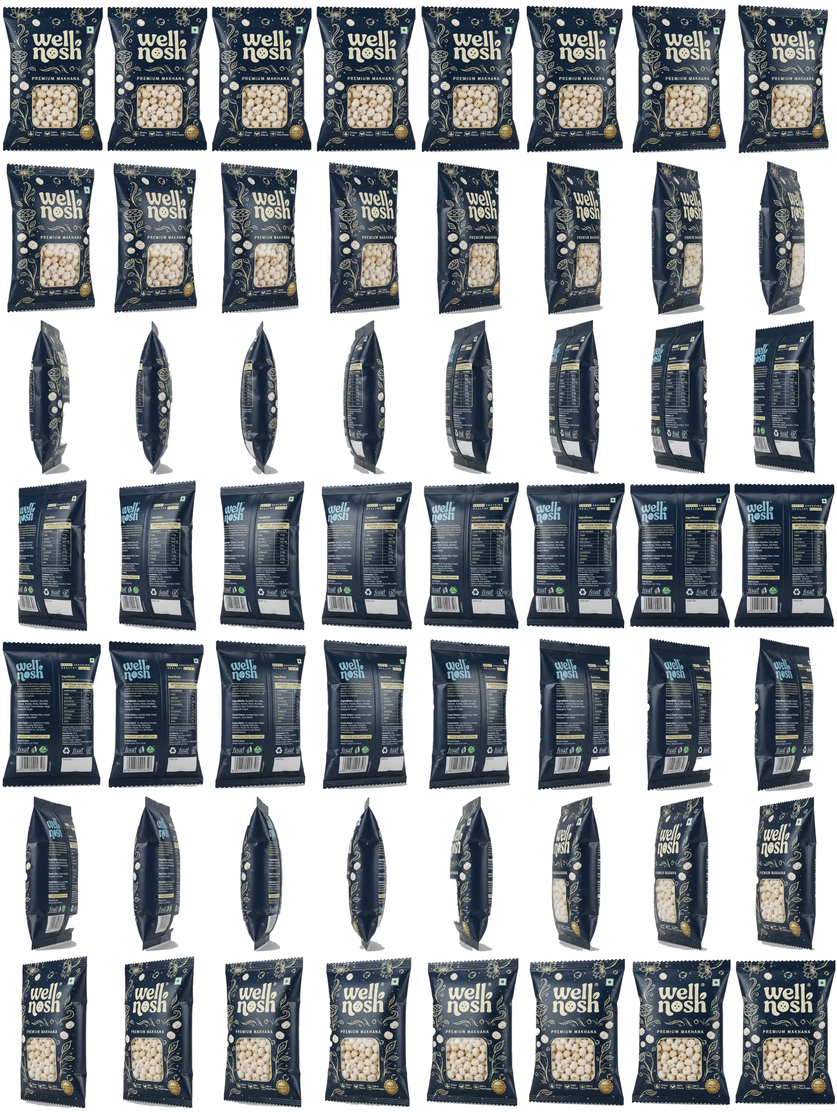
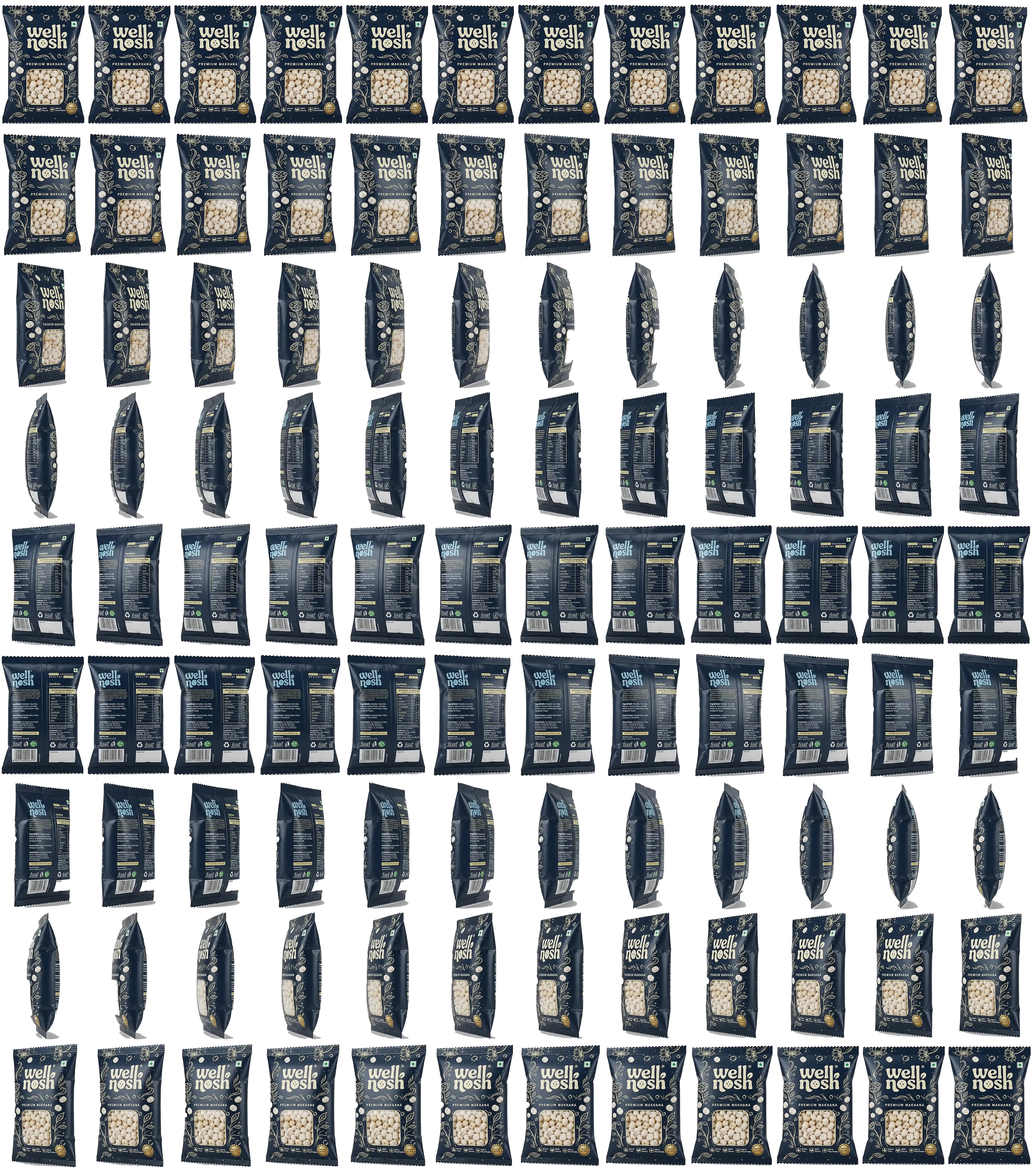
Vision & Mission, descending nutrition table, flicker-free turntable
- Added Vision and Mission cards to Our story (client's wording).
- Nutrition values sorted high to low by actual amount (g converted to mg),
  filling each column top-to-bottom.
- Rebuilt the pack turntable from one revolution in strict temporal order:
  the previous build interleaved frames from two revolutions, which differed
  in exposure and caused the flicker. Alpha also temporally smoothed.
- Sharpened frames (unsharp before and after resize) - the source video caps
  the pack at 408px, so this is the practical resolution ceiling.
- Separate mobile sprite at 540px; phones rest on a 940px still, spin on tap.
- Our story stat 5+ -> 6+ sizes.

diff --git a/index.html b/index.html
@@ -137,12 +137,24 @@ h1,h2,h3,.disp{font-family:'Baloo 2',cursive;font-weight:800;letter-spacing:-.01
 /* nutrition */
 .nutcard{max-width:760px;margin:34px auto 0;background:var(--cream-2);border:1px solid var(--cream-line);
   border-radius:var(--r-lg);padding:clamp(20px,3vw,30px);box-shadow:var(--shadow-sm)}
-.nutlist{list-style:none;display:grid;grid-template-columns:1fr 1fr;gap:0 clamp(20px,4vw,44px);text-align:left}
+.nutlist{list-style:none;display:grid;grid-template-columns:1fr 1fr;gap:0 clamp(20px,4vw,44px);text-align:left;
+  grid-auto-flow:column;grid-template-rows:repeat(5,auto)}
 .nutlist li{display:flex;align-items:baseline;justify-content:space-between;gap:12px;
   padding:11px 2px;border-bottom:1px dashed var(--cream-line);font-size:15px;color:#4a5f70}
 .nutlist li b{font-family:'Baloo 2';font-weight:700;font-size:16px;color:var(--navy);white-space:nowrap}
 .nutnote{font-size:12.5px;color:#8496a0;margin-top:16px}
-@media(max-width:620px){.nutlist{grid-template-columns:1fr}}
+@media(max-width:620px){.nutlist{grid-template-columns:1fr;grid-auto-flow:row;grid-template-rows:none}}
+/* vision & mission */
+.about .wrap.vmwrap{display:block;padding-top:0}
+.vm{display:grid;grid-template-columns:1fr 1fr;gap:20px;margin-top:46px}
+.vmcard{background:rgba(255,255,255,.07);border:1px solid rgba(183,215,225,.22);
+  border-radius:var(--r-lg);padding:28px 26px}
+.vmcard .vmic{width:46px;height:46px;border-radius:13px;background:var(--blue);color:var(--navy);
+  display:flex;align-items:center;justify-content:center;margin-bottom:16px}
+.vmcard .vmic svg{width:24px;height:24px}
+.vmcard h3{font-size:21px;margin-bottom:8px;color:#fff}
+.vmcard p{font-size:15px;color:var(--blue-2);line-height:1.65}
+@media(max-width:820px){.vm{grid-template-columns:1fr;gap:16px}}
 /* texture band */
 .texband{position:relative;padding:clamp(70px,10vw,100px) 24px;color:#fff;
   background:linear-gradient(90deg,rgba(15,56,86,.86),rgba(15,56,86,.4) 68%,rgba(15,56,86,.12)),url('assets/img/makhana-texture.jpg') center/cover no-repeat}
@@ -228,7 +240,7 @@ h1,h2,h3,.disp{font-family:'Baloo 2',cursive;font-weight:800;letter-spacing:-.01
   .footer .top{grid-template-columns:1fr}
 }
 /* hero 360 pack spin (frame sequence) */
-.pack3d{--pw:min(330px,80vw);position:relative;width:var(--pw);margin:0 auto;
+.pack3d{--pw:min(330px,74vw);position:relative;width:var(--pw);margin:0 auto;
   cursor:grab;touch-action:pan-y;user-select:none}
 .pack3d:active{cursor:grabbing}
 .pack3d::after{content:"";position:absolute;left:50%;bottom:-14px;width:62%;height:26px;
@@ -390,15 +402,15 @@ section[id]{scroll-margin-top:84px}
     <div class="nutcard">
       <ul class="nutlist">
         <li>Carbohydrates <b>76 g</b></li>
-        <li>Phosphorus <b>200 mg</b></li>
         <li>Fibre <b>14.5 g</b></li>
-        <li>Magnesium <b>25 mg</b></li>
         <li>Protein <b>9.8 g</b></li>
-        <li>Calcium <b>8 mg</b></li>
-        <li>Fat <b>0 g</b></li>
-        <li>Sodium <b>6 mg</b></li>
         <li>Potassium <b>500 mg</b></li>
+        <li>Phosphorus <b>200 mg</b></li>
+        <li>Magnesium <b>25 mg</b></li>
+        <li>Calcium <b>8 mg</b></li>
+        <li>Sodium <b>6 mg</b></li>
         <li>Iron <b>2 mg</b></li>
+        <li>Fat <b>0 g</b></li>
       </ul>
       <p class="nutnote"><b style="color:var(--navy)">Ingredients:</b> no ingredients — just nutritional facts. &nbsp;·&nbsp;
         Best before <b style="color:var(--navy)">12 months</b> from the date of packaging. &nbsp;·&nbsp;
@@ -478,10 +490,32 @@ section[id]{scroll-margin-top:84px}
       <div class="stats">
         <div><b>0</b><span>Ingredients added</span></div>
         <div><b>100%</b><span>Natural &amp; pure</span></div>
-        <div><b>5+</b><span>Sizes · 100g to 10kg</span></div>
+        <div><b>6+</b><span>Sizes · 100g to 10kg</span></div>
       </div>
     </div>
     <div class="pic"><img loading="lazy" decoding="async" src="assets/img/pack-250.png" alt="WellNosh Premium Makhana pack"></div>
+  </div>
+  <div class="wrap vmwrap">
+    <div class="vm">
+      <div class="vmcard">
+        <div class="vmic" aria-hidden="true">
+          <svg viewBox="0 0 24 24" fill="none" stroke="currentColor" stroke-width="1.8" stroke-linecap="round" stroke-linejoin="round">
+            <path d="M1 12s4-7 11-7 11 7 11 7-4 7-11 7-11-7-11-7Z"/><circle cx="12" cy="12" r="3"/>
+          </svg>
+        </div>
+        <h3>Vision</h3>
+        <p>To become a leading global healthy snacking brand, making nutritious, delicious, and innovative snacks a part of everyday life.</p>
+      </div>
+      <div class="vmcard">
+        <div class="vmic" aria-hidden="true">
+          <svg viewBox="0 0 24 24" fill="none" stroke="currentColor" stroke-width="1.8" stroke-linecap="round" stroke-linejoin="round">
+            <circle cx="12" cy="12" r="9"/><circle cx="12" cy="12" r="4.5"/><circle cx="12" cy="12" r="1"/>
+          </svg>
+        </div>
+        <h3>Mission</h3>
+        <p>To create high-quality, delicious, and better-for-you snacks using thoughtfully selected ingredients, combining nutrition, taste, and innovation to give consumers smarter choices for every snacking occasion.</p>
+      </div>
+    </div>
   </div>
 </section>
 
@@ -644,7 +678,7 @@ s.style.cssText="left:"+(Math.random()*100).toFixed(1)+"%;width:"+sz+"px;height:
 "animation-delay:"+(-Math.random()*14).toFixed(1)+"s;";
 sh.appendChild(s);}}
 })();</script>
-<!-- pack turntable: real video frames, auto-spins; hover/drag also drive it -->
+<!-- pack turntable: continuous one-way rotation; hover speeds it up, drag scrubs -->
 <script>
 (function(){
   var el=document.getElementById('pack3d'), cv=document.getElementById('packCv');
@@ -652,57 +686,52 @@ sh.appendChild(s);}}
   var grab=document.getElementById('packGrab')||el;
   var ctx=cv.getContext('2d');
   var reduce=matchMedia('(prefers-reduced-motion:reduce)').matches;
-  var hi=(window.devicePixelRatio||1)>1.3 && window.innerWidth>=700;
-  var SRC=hi?'assets/img/pack-turn-2x.webp':'assets/img/pack-turn.webp';
-  var COLS=8, ROWS=7, N=56;
-  var AUTO_MS=3000, HOVER_MS=2100;             // 56 frames / 3.0s ~= 19fps, above the stepping threshold
-  var cache=null, f=0, dragging=false, lastX=0, acc=0, hovering=false;
-  var raf=0, t0=0, onScreen=true;
+  var touch=matchMedia('(hover:none)').matches || window.innerWidth<700;
+  // pick by the device pixels the pack actually occupies, not by viewport width:
+  // a phone at DPR 3 needs MORE resolution than a desktop at DPR 2, not less.
+  var SRC, COLS, ROWS, N;
+  if(touch){ SRC='assets/img/pack-turn-mobile.webp'; COLS=9;  ROWS=6; N=54;  }   // 540px frames
+  else     { SRC='assets/img/pack-turn-2x.webp';     COLS=12; ROWS=9; N=108; }   // 460px frames
+  var AUTO_MS=touch?3000:5000;                 // 108f/5s = 21.6fps desktop, 54f/3s = 18fps mobile
+  var HOVER_MS=touch?2000:2800;                // eases faster while the cursor is on it
+  var sheet=null, FW=0, FH=0, f=0;
+  var pos=0, spd=0, last=0, raf=0, onScreen=true;
+  var dragging=false, lastX=0, acc=0, hovering=false;
 
   function draw(k){
-    if(!cache) return;
-    pos=k;
-    f=((Math.round(k)%N)+N)%N;
+    if(!sheet) return;
+    pos=k; f=((Math.round(k)%N)+N)%N;
     ctx.clearRect(0,0,cv.width,cv.height);
-    ctx.drawImage(cache[f],0,0);
+    ctx.drawImage(sheet,(f%COLS)*FW,Math.floor(f/COLS)*FH,FW,FH,0,0,cv.width,cv.height);
   }
-  // position and speed are integrated, so changing pace eases in instead of jumping
-  var pos=0, spd=N/AUTO_MS, last=0;
-  function target(){ return N/(hovering?HOVER_MS:AUTO_MS); }
+
   function tick(t){
-    if(!cache||dragging||reduce||!onScreen){ raf=0; return; }
+    if(!sheet||dragging||reduce||!onScreen){ raf=0; return; }
     var dt=Math.min(64,t-last); last=t;
-    spd += (target()-spd)*(1-Math.exp(-dt/260));   // ~0.26s to settle into the new pace
-    pos += spd*dt;
-    draw(pos);
+    var tgt=N/(hovering?HOVER_MS:AUTO_MS);
+    spd += (tgt-spd)*(1-Math.exp(-dt/280));     // ease between the two paces, never stop
+    draw(pos+spd*dt);
     raf=requestAnimationFrame(tick);
   }
   function run(){
-    if(reduce||dragging||!cache||!onScreen) return;
+    if(reduce||dragging||!sheet||!onScreen) return;
     last=performance.now();
+    if(!spd) spd=N/AUTO_MS;
     if(!raf) raf=requestAnimationFrame(tick);
   }
   function halt(){ if(raf){ cancelAnimationFrame(raf); raf=0; } }
 
   var img=new Image();
   img.onload=function(){
-    var FW=img.naturalWidth/COLS, FH=img.naturalHeight/ROWS;
+    FW=img.naturalWidth/COLS; FH=img.naturalHeight/ROWS;
     cv.width=Math.round(FW); cv.height=Math.round(FH);
-    cache=[];
-    for(var k=0;k<N;k++){
-      var c=document.createElement('canvas'); c.width=cv.width; c.height=cv.height;
-      c.getContext('2d').drawImage(img,(k%COLS)*FW,Math.floor(k/COLS)*FH,FW,FH,0,0,cv.width,cv.height);
-      cache.push(c);
-    }
-    draw(0);
-    el.classList.add('turning');                // hand over from the still image
-    run();
+    sheet=img; draw(0);
+    if(!touch){ el.classList.add('turning'); run(); }
   };
-  img.onerror=function(){};                     // still image simply stays
+  img.onerror=function(){};
   img.decoding='async';
-  img.src=SRC;
+  if(touch) setTimeout(function(){ img.src=SRC; },1200); else img.src=SRC;
 
-  // don't burn CPU while the hero is scrolled out of view
   if(window.IntersectionObserver){
     new IntersectionObserver(function(e){
       onScreen=e[0].isIntersecting;
@@ -716,22 +745,24 @@ sh.appendChild(s);}}
   el.addEventListener('pointerenter',function(){ hovering=true; run(); });
   el.addEventListener('pointerleave',function(){ hovering=false; run(); });
   grab.addEventListener('pointerdown',function(e){
-    if(!cache) return;
+    if(!sheet) return;
+    if(touch) el.classList.add('turning');
     dragging=true; acc=0; lastX=e.clientX; halt();
     try{grab.setPointerCapture(e.pointerId);}catch(_){}
     e.preventDefault();
   });
   grab.addEventListener('pointermove',function(e){
-    if(!dragging||!cache) return;
+    if(!dragging||!sheet) return;
     var dx=e.clientX-lastX; lastX=e.clientX; acc+=dx;
-    var step=Math.trunc(acc/9);
-    if(step){ draw(f+step); acc-=step*9; }
+    var step=Math.trunc(acc/7);
+    if(step){ draw(f+step); acc-=step*7; }
     e.preventDefault();
   });
   function endDrag(){
     if(!dragging) return;
     dragging=false;
-    run();                                      // pick the spin back up from here
+    spd=N/(hovering?HOVER_MS:AUTO_MS);
+    run();
   }
   grab.addEventListener('pointerup',endDrag);
   grab.addEventListener('pointercancel',endDrag);
